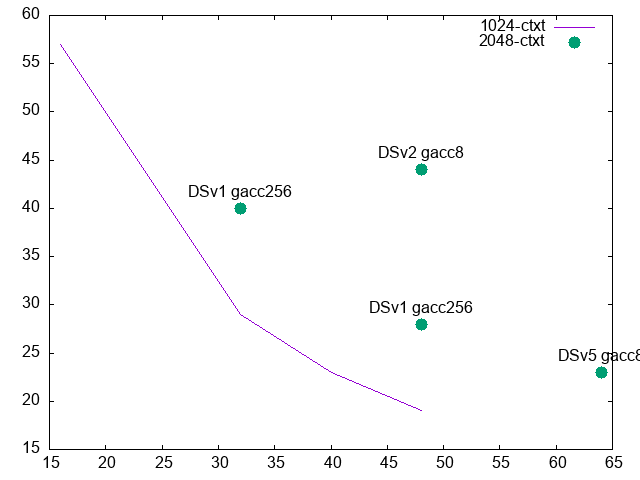
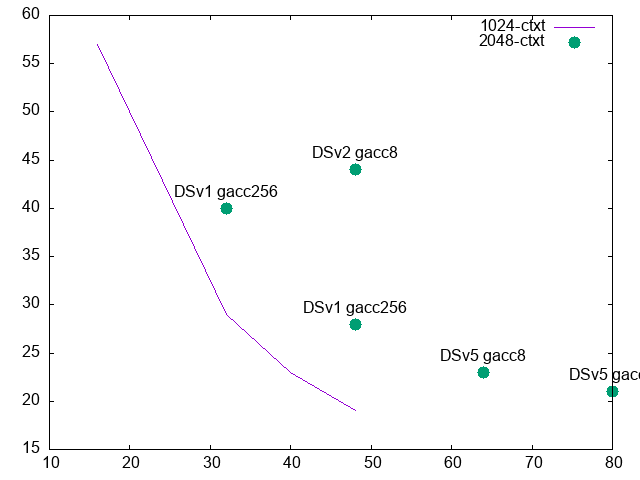
80xa100 does not bring much

diff --git a/eval.md b/eval.md
@@ -77,6 +77,8 @@ Number of compute-days to train on 100b tokens as a function of the number of GP
 - Deepspeed stage 1, gradacc 8, act_chkpting, AdamW, bloom-7b, bs 1, 64xA100:  **23 jours pour 100b tokens**
     - LR=1e-4
     - converge au meme point, mais 1e-4 est plus instable au debut 
+- Deepspeed stage 1, gradacc 8, act_chkpting, AdamW, bloom-7b, bs 1, 80xA100:  **21 jours pour 100b tokens**
+    - meme convergence que ci-dessus, mais un peu plus long
 
 
 ## April loss curves
